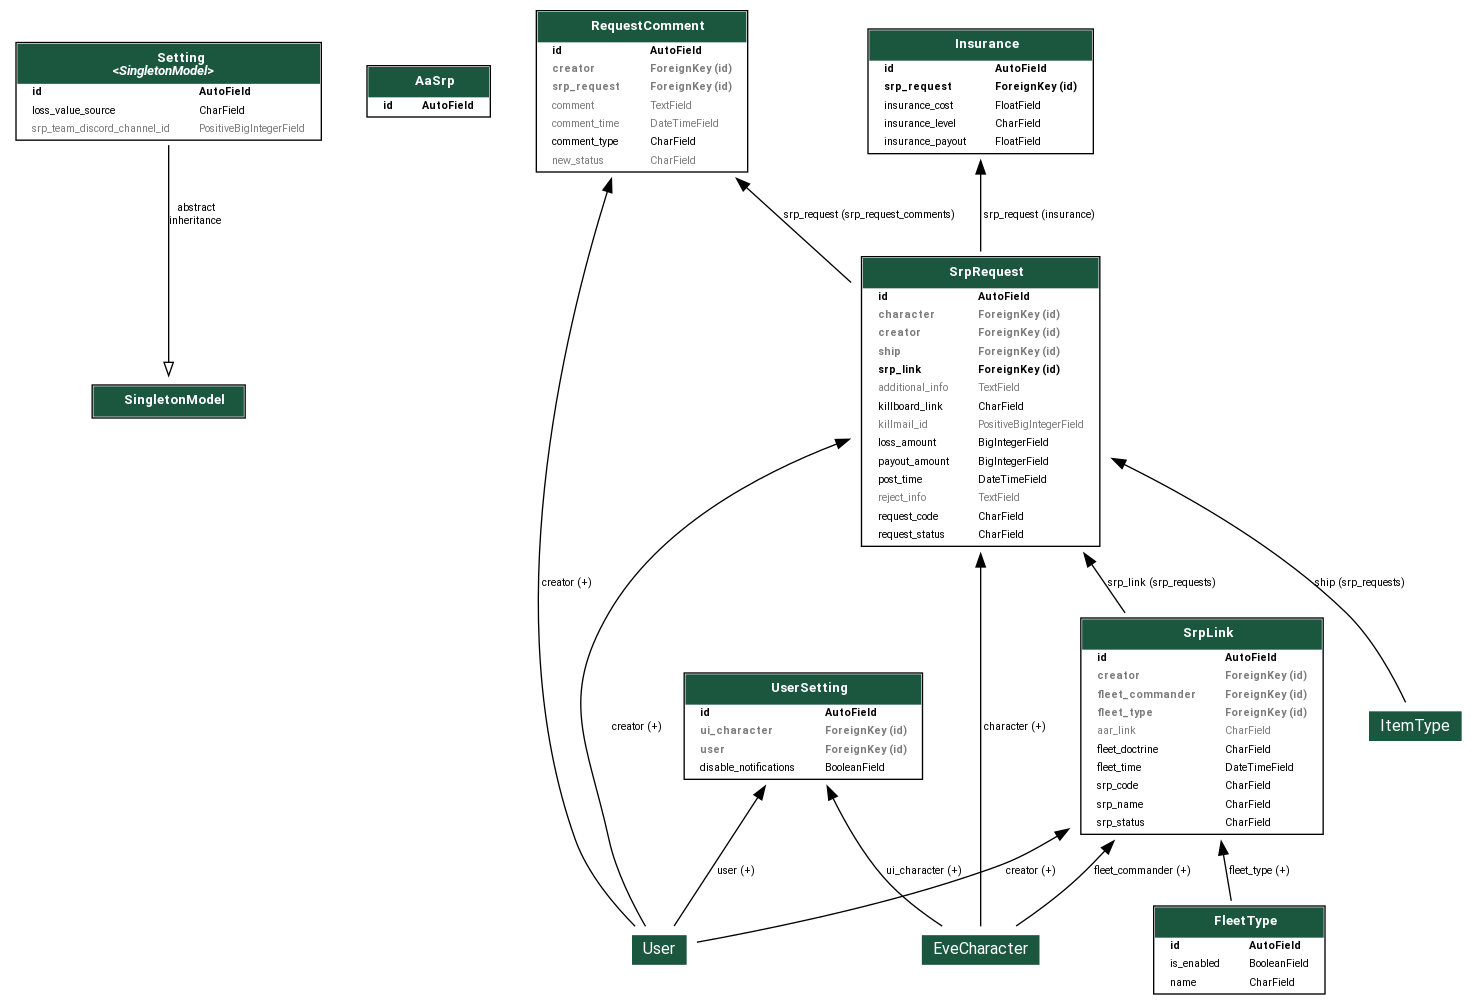
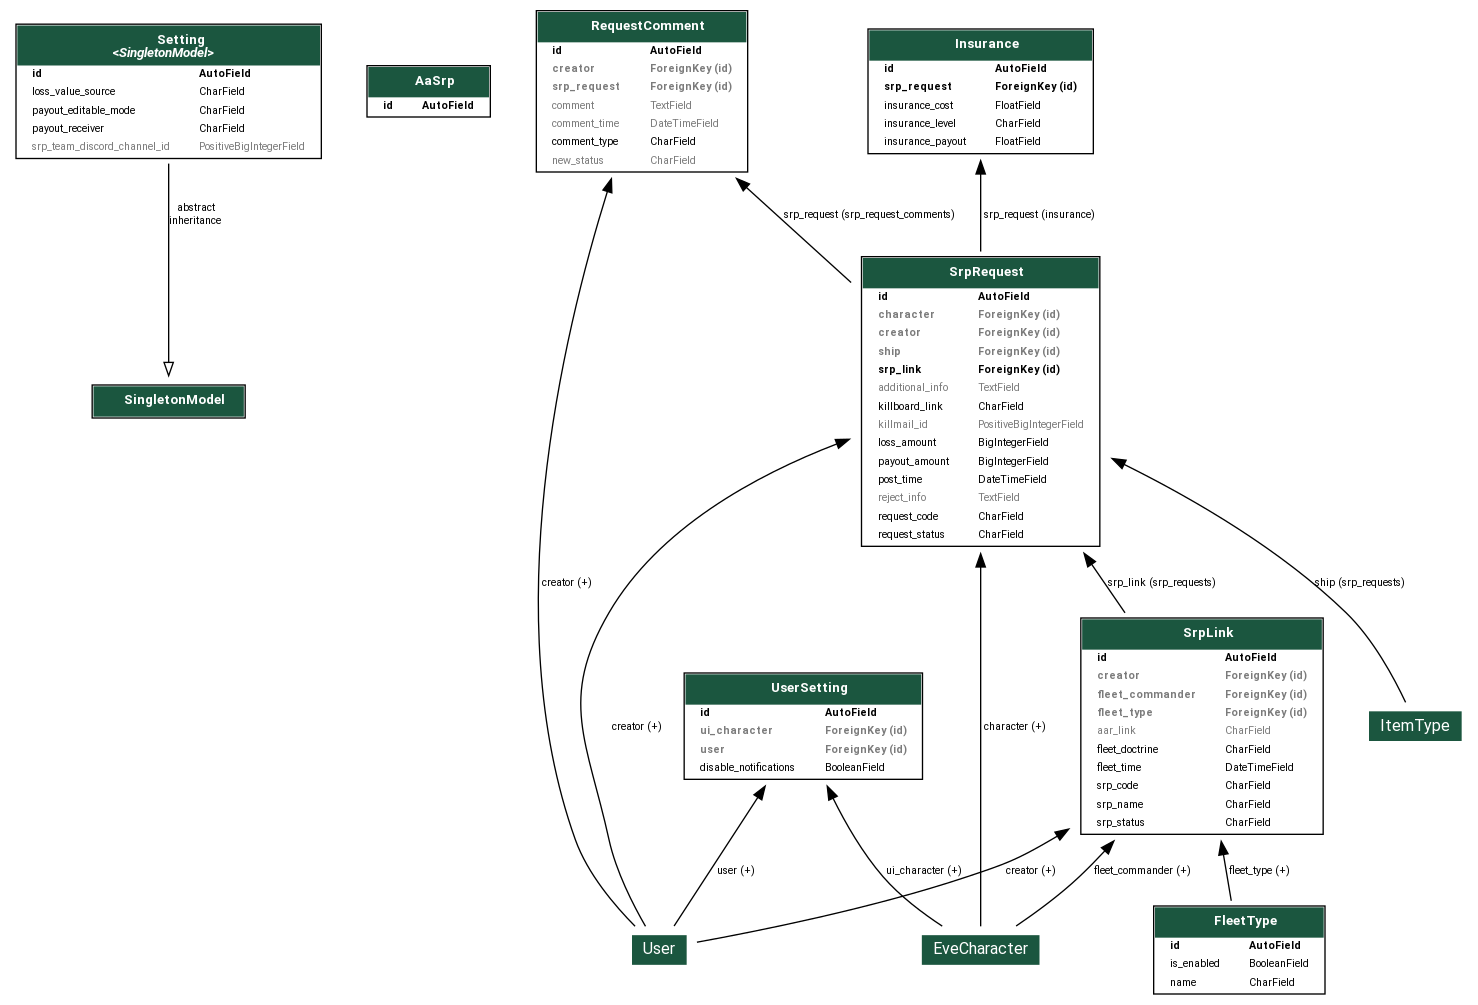
[RELEASE] v5.6.0
## [5.6.0] - 2026-11-06

### Added

- Global setting to select who receives the SRP payout, the main character or the
  character that lost the ship. This setting affects which in-game character info
  window will be opened when clicking the "Open in-game" button in the SRP requests
  table
- Global setting to select how the payout amount is edited, either as popup as it
  has been the case so far (default), or inline in the table column

### Fixed

- Dashboard card header
- Dashboard SRP link filter permissions

### Changed

- Dashboard DataTables are now server-side processed, which should improve performance for users with a lot of SRP links and requests

Changed region(s): [[0.0, 0.0, 0.2179, 0.1851]]

diff --git a/aasrp/static/aasrp/javascript/srp-links.min.js b/aasrp/static/aasrp/javascript/srp-links.min.js
@@ -1,2 +1,2 @@
-$(document).ready(()=>{'use strict';const t=$('#table_tab-srp-links');console.log('aaSrpSettings:',aaSrpSettings);const a=t=>{t.rows().every(a=>{const e=t.row(a).data(),o=numberFormatter({value:e[7],locales:aaSrpSettings.locale,options:{style:'currency',currency:'ISK'}});t.cell(a,7).data(o)})};let e={...aaSrpSettings.dataTables,order:[[2,'asc']],columnDefs:[{targets:[2,5],columnControl:_removeSearchFromColumnControl(aaSrpSettings.dataTables.columnControl,1)},{targets:[7,9],columnControl:[{target:0,content:[]},{target:1,content:[]}]},{targets:[5,7,9],orderable:!1},{target:7,className:'srp-link-total-cost',type:'num'},{target:9,className:'srp-link-pending-requests'},{target:10,className:'srp-link-actions text-end'}],initComplete:()=>{const e=t.DataTable();_bootstrapTooltip({selector:'#table_tab-srp-links'}),a(e),e.on('draw',()=>{_bootstrapTooltip({selector:'#table_tab-srp-links'}),a(e)}),$('input[name="srp-requests-filter"]').on('change',()=>e.draw())}};!1===aaSrpSettings.paging&&(e={...e,pageLength:99999,layout:{topStart:null,bottomEnd:null}});new DataTable(t,e).on('preXhr.dt',(t,a,e)=>{e['filter[has_requests]']=$('#aasrp-srp-request-filter-pending').is(':checked')});const o=$('#enable-srp-link'),l=$('#disable-srp-link'),n=$('#delete-srp-link');o.on('show.bs.modal',t=>{const a=$(t.relatedTarget),e=a.data('url'),l=a.data('name');o.find('#modal-button-confirm-enable-srp-link').attr('href',e),o.find('.modal-body').html(`${aaSrpSettings.translation.modal.enableSrpLink.body}<p class="fw-bold">${l}</p>`)}).on('hide.bs.modal',()=>{o.find('.modal-body').html('')}),l.on('show.bs.modal',t=>{const a=$(t.relatedTarget),e=a.data('url'),o=a.data('name');l.find('#modal-button-confirm-disable-srp-link').attr('href',e),l.find('.modal-body').html(`${aaSrpSettings.translation.modal.disableSrpLink.body}<p class="fw-bold">${o}</p>`)}).on('hide.bs.modal',()=>{l.find('.modal-body').html('')}),n.on('show.bs.modal',t=>{const a=$(t.relatedTarget),e=a.data('url'),o=a.data('name');n.find('#modal-button-confirm-delete-srp-link').attr('href',e),n.find('.modal-body').html(`${aaSrpSettings.translation.modal.deleteSrpLink.body}<p class="fw-bold">${o}</p>`)}).on('hide.bs.modal',()=>{n.find('.modal-body').html('')})});
+$(document).ready(()=>{'use strict';const t=$('#table_tab-srp-links'),a=t=>{t.rows().every(a=>{const e=t.row(a).data(),l=numberFormatter({value:e[7],locales:aaSrpSettings.locale,options:{style:'currency',currency:'ISK'}});t.cell(a,7).data(l)})};let e={...aaSrpSettings.dataTables,order:[[2,'asc']],columnDefs:[{targets:[2,5],columnControl:_removeSearchFromColumnControl(aaSrpSettings.dataTables.columnControl,1)},{targets:[7,9],columnControl:[{target:0,content:[]},{target:1,content:[]}]},{targets:[5,7,9],orderable:!1},{target:7,className:'srp-link-total-cost',type:'num'},{target:9,className:'srp-link-pending-requests'},{target:10,className:'srp-link-actions text-end'}],initComplete:()=>{const e=t.DataTable();_bootstrapTooltip({selector:'#table_tab-srp-links'}),a(e),e.on('draw',()=>{_bootstrapTooltip({selector:'#table_tab-srp-links'}),a(e)}),$('input[name="srp-requests-filter"]').on('change',()=>e.draw())}};!1===aaSrpSettings.paging&&(e={...e,pageLength:99999,layout:{topStart:null,bottomEnd:null}});new DataTable(t,e).on('preXhr.dt',(t,a,e)=>{e['filter[has_requests]']=$('#aasrp-srp-request-filter-pending').is(':checked')});const l=$('#enable-srp-link'),o=$('#disable-srp-link'),n=$('#delete-srp-link');l.on('show.bs.modal',t=>{const a=$(t.relatedTarget),e=a.data('url'),o=a.data('name');l.find('#modal-button-confirm-enable-srp-link').attr('href',e),l.find('.modal-body').html(`${aaSrpSettings.translation.modal.enableSrpLink.body}<p class="fw-bold">${o}</p>`)}).on('hide.bs.modal',()=>{l.find('.modal-body').html('')}),o.on('show.bs.modal',t=>{const a=$(t.relatedTarget),e=a.data('url'),l=a.data('name');o.find('#modal-button-confirm-disable-srp-link').attr('href',e),o.find('.modal-body').html(`${aaSrpSettings.translation.modal.disableSrpLink.body}<p class="fw-bold">${l}</p>`)}).on('hide.bs.modal',()=>{o.find('.modal-body').html('')}),n.on('show.bs.modal',t=>{const a=$(t.relatedTarget),e=a.data('url'),l=a.data('name');n.find('#modal-button-confirm-delete-srp-link').attr('href',e),n.find('.modal-body').html(`${aaSrpSettings.translation.modal.deleteSrpLink.body}<p class="fw-bold">${l}</p>`)}).on('hide.bs.modal',()=>{n.find('.modal-body').html('')})});
 //# sourceMappingURL=srp-links.min.js.map

diff --git a/aasrp/static/aasrp/javascript/srp-links.js b/aasrp/static/aasrp/javascript/srp-links.js
@@ -5,8 +5,6 @@ $(document).ready(() => {
 
     const elementTableSrpLinks = $('#table_tab-srp-links');
 
-    console.log('aaSrpSettings:', aaSrpSettings);
-
     /**
      * Format the Total Cost column in the DataTable to display currency values.
      *

diff --git a/aasrp/migrations/0006_setting_payout_editable_mode_setting_payout_receiver.py b/aasrp/migrations/0006_setting_payout_editable_mode_setting_payout_receiver.py
@@ -1,0 +1,47 @@
+# Generated by Django 5.2.19 on 2026-11-06 12:21
+
+# Django
+from django.db import migrations, models
+
+
+class Migration(migrations.Migration):
+
+    dependencies = [
+        ("aasrp", "0005_usersetting_ui_character"),
+    ]
+
+    operations = [
+        migrations.AddField(
+            model_name="setting",
+            name="payout_editable_mode",
+            field=models.CharField(
+                choices=[("popup", "Popup"), ("inline", "Inline")],
+                default="popup",
+                help_text=(
+                    "How should the payout amount be edited? Popup will open a popup "
+                    "window to edit the payout amount. Inline will allow editing the "
+                    "payout amount directly in the table. (Default: Popup)"
+                ),
+                max_length=6,
+                verbose_name="Payout editable mode",
+            ),
+        ),
+        migrations.AddField(
+            model_name="setting",
+            name="payout_receiver",
+            field=models.CharField(
+                choices=[
+                    ("requestor", "Requestor's main character"),
+                    ("loser", "The character that lost the ship"),
+                ],
+                default="requestor",
+                help_text=(
+                    "Who should receive the payout for an approved SRP request? The "
+                    "requestor's main character or the character that lost the ship. "
+                    "(Default: Requestor's main character)"
+                ),
+                max_length=9,
+                verbose_name="Payout receiver",
+            ),
+        ),
+    ]

diff --git a/aasrp/__init__.py b/aasrp/__init__.py
@@ -6,7 +6,7 @@ This module defines metadata and constants for the Ship Replacement Program (SRP
 # Django
 from django.utils.translation import gettext_lazy as _
 
-__version__ = "5.5.0"
+__version__ = "5.6.0"
 __title__ = "Ship Replacement"
 __title_translated__ = _("Ship Replacement")
 __verbose_name__ = "Ship Replacement (SRP) for Alliance Auth"

diff --git a/CHANGELOG.md b/CHANGELOG.md
@@ -48,6 +48,8 @@ Section Order:
 
 <!-- Your changes go here -->
 
+## [5.6.0] - 2026-11-06
+
 ### Added
 
 - Global setting to select who receives the SRP payout, the main character or the
@@ -60,6 +62,7 @@ Section Order:
 ### Fixed
 
 - Dashboard card header
+- Dashboard SRP link filter permissions
 
 ### Changed
 
@@ -1927,11 +1930,12 @@ python manage.py aasrp_update_db_relations
 [5.3.0]: https://github.com/ppfeufer/aa-srp/compare/v5.2.1...v5.3.0 "v5.3.0"
 [5.4.0]: https://github.com/ppfeufer/aa-srp/compare/v5.3.0...v5.4.0 "v5.4.0"
 [5.5.0]: https://github.com/ppfeufer/aa-srp/compare/v5.4.0...v5.5.0 "v5.5.0"
+[5.6.0]: https://github.com/ppfeufer/aa-srp/compare/v5.5.0...v5.6.0 "v5.6.0"
 [aa discord notify]: https://gitlab.com/ErikKalkoken/aa-discordnotify "AA Discord Notify"
 [aa fleet pings]: https://github.com/ppfeufer/aa-fleetpings "AA Fleet Pings"
 [aa-discordbot]: https://github.com/pvyParts/allianceauth-discordbot "AA-Discordbot"
 [evetools killboard]: https://kb.evetools.org/ "EveTools Killboard"
-[in development]: https://github.com/ppfeufer/aa-srp/compare/v5.5.0...HEAD "In Development"
+[in development]: https://github.com/ppfeufer/aa-srp/compare/v5.6.0...HEAD "In Development"
 [keep a changelog]: http://keepachangelog.com/ "Keep a Changelog"
 [semantic versioning]: http://semver.org/ "Semantic Versioning"
 [tooltip: change srp payout amount]: https://raw.githubusercontent.com/ppfeufer/aa-srp/master/docs/images/tooltip-change-srp-payout-amount.png "Tooltip: Change SRP Payout Amount"

diff --git a/README.md b/README.md
@@ -124,7 +124,7 @@ Make sure you're in the virtual environment (venv) of your Alliance Auth
 installation Then install the latest release directly from PyPi.
 
 ```shell
-pip install aa-srp==5.5.0
+pip install aa-srp==5.6.0
 ```
 
 #### Step 2: Configure Alliance Auth<a name="step-2-configure-alliance-auth"></a>
@@ -187,7 +187,7 @@ Restart your supervisor services for Auth
 Add the app to your `conf/requirements.txt`
 
 ```requirements
-aa-srp==5.5.0
+aa-srp==5.6.0
 ```
 
 #### Step 2: Update Your AA Settings<a name="step-2-update-your-aa-settings"></a>
@@ -313,7 +313,7 @@ To update your existing installation of AA SRP, first enable your virtual enviro
 Then run the following command to update AA SRP to the latest version.
 
 ```shell
-pip install aa-srp==5.5.0
+pip install aa-srp==5.6.0
 
 python manage.py collectstatic
 python manage.py migrate
@@ -329,7 +329,7 @@ To update your existing installation of AA SRP, first update the version in your
 `conf/requirements.txt` to the latest version.
 
 ```requirements
-aa-srp==5.5.0
+aa-srp==5.6.0
 ```
 
 Then build your Auth container and restart your containers.
